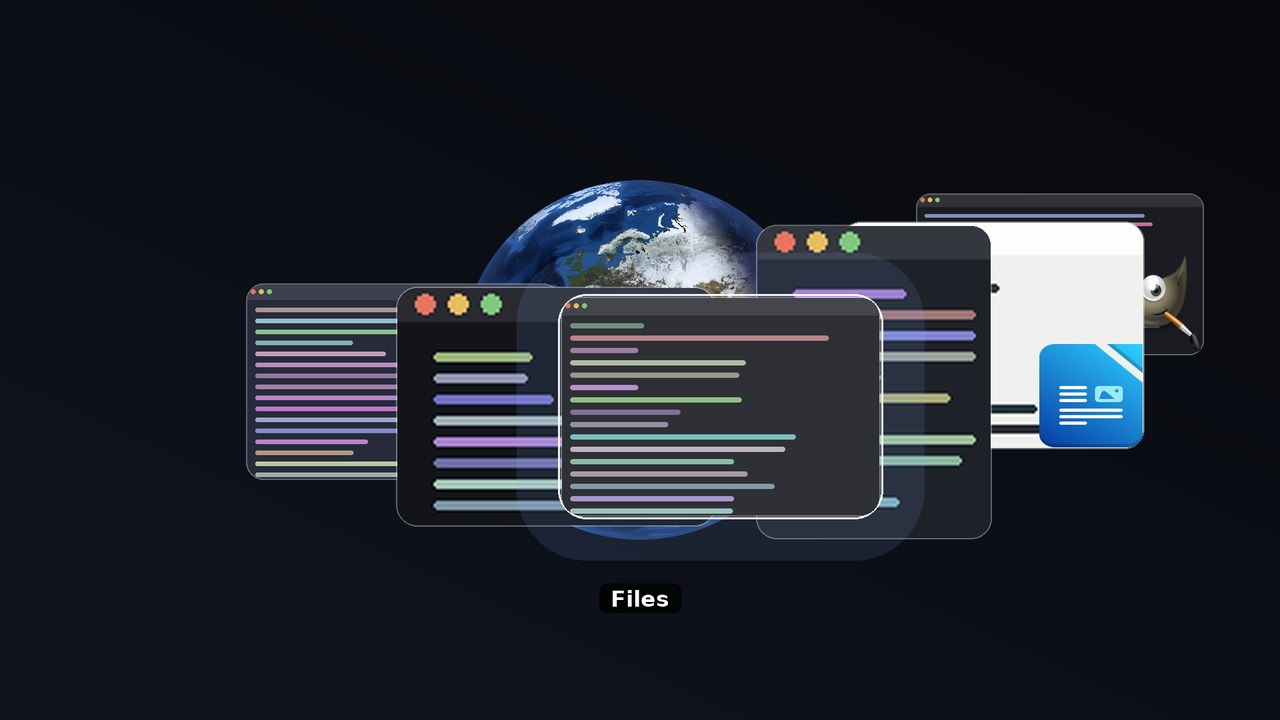
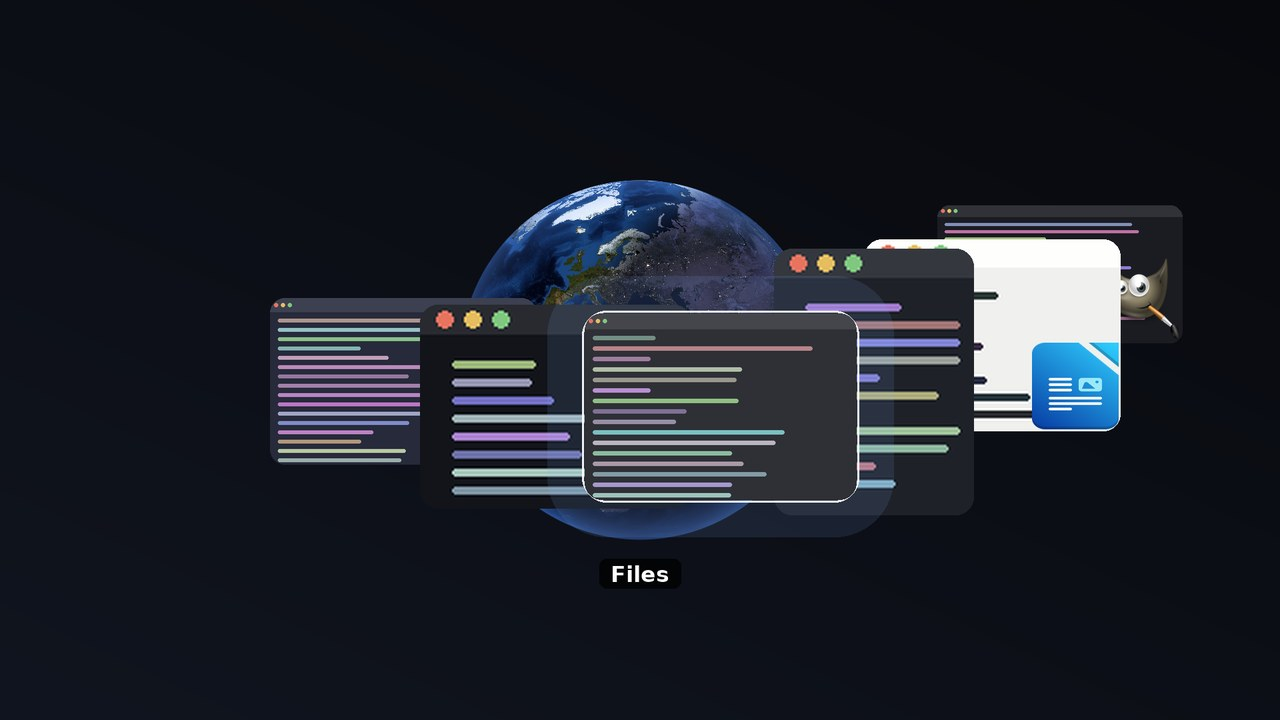
Show more of the globe, drop the tile border, and face the local meridian
Tiles come down from 0.377 to 0.32 of the screen's short axis, and the
translucent hairline around each one is gone.

The terminator was already computed from the system clock and was correct,
but the globe was pinned to the prime meridian, so all evening it presented
a dark face while the daylight sat round the back -- which looks exactly
like a globe that is lit wrongly. The view now turns to the clock's own
offset from UTC, fifteen degrees of longitude an hour, so it faces the
user's part of the world and shows whether it is still in daylight. The
offset is applied when sampling the map rather than to the ring, so the
windows still line up with the selection.

The night side also keeps a trace of daylight now. City lights alone are
near enough to black that at night half the globe vanished, which made it
impossible to see where the daylight had got to.

Changed region(s): [[0.1875, 0.2444, 0.9375, 0.8556]]

diff --git a/globeswitcher/daemon.py b/globeswitcher/daemon.py
@@ -76,6 +76,22 @@ def shortest_turn(delta):
     return (delta + math.pi) % TWO_PI - math.pi
 
 
+def local_meridian():
+    """The rotation that turns the user's own part of the world to the front.
+
+    The map already carries the terminator for right now, but a globe pinned
+    to the prime meridian shows a dark face all evening while the daylight
+    sits round the back. Facing the viewer's own longitude puts the daylight
+    where they care about it, and shows whether their own part of the world is
+    still in it. Fifteen degrees of longitude an hour, from the clock's own
+    offset from UTC.
+    """
+    local = time.localtime()
+    offset_seconds = -(time.altzone if local.tm_isdst and time.daylight
+                       else time.timezone)
+    return offset_seconds / 3600.0 * (math.pi / 12.0)
+
+
 class WindowEntry:
     __slots__ = ("xid", "title", "icon", "thumbnail")
 
@@ -122,6 +138,11 @@ class Switcher:
         self._roll_to = 0.0
         self._roll_start = 0.0
         self._roll_duration = ROLL_DURATION
+
+        # Added to the ring's rotation when sampling the map, so the geography
+        # on show is set by the clock while the ring still lines up with the
+        # selected window.
+        self._meridian = local_meridian()
 
     # -- key grabs ------------------------------------------------------------
 
@@ -273,6 +294,7 @@ class Switcher:
         if self.generator:
             self.globe.refresh_if_stale(self.generator)
         self.globe.reload_texture()
+        self._meridian = local_meridian()
 
         screen = x11.grab_screen(self.display)
         if screen is None:
@@ -384,7 +406,7 @@ class Switcher:
 
         # render() hands back its own reusable buffer, and returns a blank
         # sphere rather than nothing when the map has not been generated yet.
-        rendered = self.globe.render(self._rotation)
+        rendered = self.globe.render(self._rotation + self._meridian)
 
         block, x, y = self._frame.render(
             self._rotation, self._selected, rendered, self.globe.alpha)

diff --git a/globeswitcher/ui.py b/globeswitcher/ui.py
@@ -37,9 +37,9 @@ from .globe import VIEW_TILT_RADIANS
 
 # Layout, as fractions of the screen's short axis.
 GLOBE_FRACTION = 0.50
-ITEM_FRACTION = 0.377
-ITEM_MIN = 218
-ITEM_MAX = 494
+ITEM_FRACTION = 0.32
+ITEM_MIN = 185
+ITEM_MAX = 420
 
 # The ring the windows ride on, in globe radii. Wide enough that
 # ORBIT_RADIUS * sin(view tilt) is about 1, which puts the window at the front
@@ -434,12 +434,6 @@ class TileFactory:
         tile = thumbnail.resize((width, tall), Image.LANCZOS).convert("RGBA")
         radius = max(4, int(min(width, tall) * 0.09))
         tile.putalpha(_rounded_mask((width, tall), radius))
-
-        # A hairline edge stops pale window contents dissolving into the
-        # dimmed desktop behind them.
-        ImageDraw.Draw(tile).rounded_rectangle(
-            (0, 0, width - 1, tall - 1), radius=radius,
-            outline=(255, 255, 255, 90), width=2)
 
         icon = self._icons[index]
         if icon is not None:

diff --git a/README.md b/README.md
@@ -80,7 +80,9 @@ everything it installed.
 **The map.** `tools/globe-texture` renders a 2048x1024 equirectangular image
 from NASA's *Blue Marble* (day) and *Black Marble* (night lights). Each pixel
 is mixed according to the sun's elevation there, across a smoothstep twilight
-band, so the terminator is a soft edge rather than a hard line. The subsolar
+band, so the terminator is a soft edge rather than a hard line. A trace of
+daylight is left in the night side, because city lights alone are so close to
+black that half the globe would simply disappear. The subsolar
 point comes from the low-precision solar formulas in the *Astronomical
 Almanac* — no network service is involved, only your system clock. The imagery
 is downloaded once and cached; everything after that works offline.
@@ -121,6 +123,14 @@ anything left over falls back to the application icon until the next open.
 Which windows are hidden needs no test for it. The far half is drawn first,
 then the globe, then the near half; because the globe is opaque inside its
 disc, a window crossing the limb is cut exactly at the silhouette.
+
+**Which way it faces.** The map carries the terminator for right now, but a
+globe pinned to the prime meridian shows a dark face all evening while the
+daylight sits round the back. The view is turned to the clock's own offset
+from UTC instead — fifteen degrees of longitude an hour — so you are looking
+at your own part of the world, and can see whether it is still in daylight.
+That offset is added when sampling the map, not to the ring, so the windows
+still line up where they should.
 
 **Rolling.** The selected window is whichever one faces you, so selection and
 rotation are the same thing: pressing Tab picks the next window and sets the
@@ -198,6 +208,7 @@ Constants at the top of the source:
 | `globeswitcher/ui.py` | `BACKDROP_DIM` | How much of the desktop's brightness remains |
 | `globeswitcher/ui.py` | `BADGE_FRACTION` | Size of the application icon on a thumbnail |
 | `tools/globe-texture` | `TWILIGHT_LO` / `TWILIGHT_HI` | Solar elevations bounding the twilight blend |
+| `tools/globe-texture` | `NIGHT_AMBIENT` | Daylight left in the night side so it stays readable |
 
 `(ORBIT_RADIUS · sin(VIEW_TILT_RADIANS) − ORBIT_LIFT · cos(VIEW_TILT_RADIANS))`
 is where the front window sits, in globe radii below the centre. Around 0.65 it
